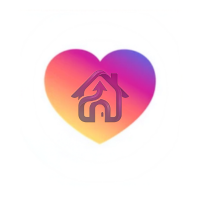
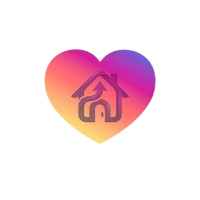
feat: replace SVG heart clipping with direct transparent heart image rendering

diff --git a/client/components/reel/VideoCard.tsx b/client/components/reel/VideoCard.tsx
@@ -304,28 +304,12 @@ export default function VideoCard({
             transition={{ duration: 0.6, ease: "easeOut" }}
             className="absolute inset-0 flex items-center justify-center z-30 pointer-events-none"
           >
-            <div className="drop-shadow-[0_10px_25px_rgba(0,0,0,0.4)]">
-              <svg 
-                viewBox="0 0 100 100" 
-                className="w-36 h-36"
-                xmlns="http://www.w3.org/2000/svg"
-              >
-                <defs>
-                  <clipPath id="heartClip">
-                    <path d="M50 90 C20 65 5 45 5 28 C5 15 15 5 28 5 C36 5 44 9 50 16 C56 9 64 5 72 5 C85 5 95 15 95 28 C95 45 80 65 50 90 Z" />
-                  </clipPath>
-                </defs>
-
-                {/* Render the image clipped to the heart shape to remove the white outer circle */}
-                <image 
-                  href="/heart.png" 
-                  x="-2.5" 
-                  y="-2.5" 
-                  width="105" 
-                  height="105" 
-                  clipPath="url(#heartClip)"
-                />
-              </svg>
+            <div className="drop-shadow-[0_10px_25px_rgba(0,0,0,0.45)]">
+              <img 
+                src="/heart.png" 
+                alt="Heart Favorite" 
+                className="w-36 h-36 object-contain"
+              />
             </div>
           </motion.div>
         )}